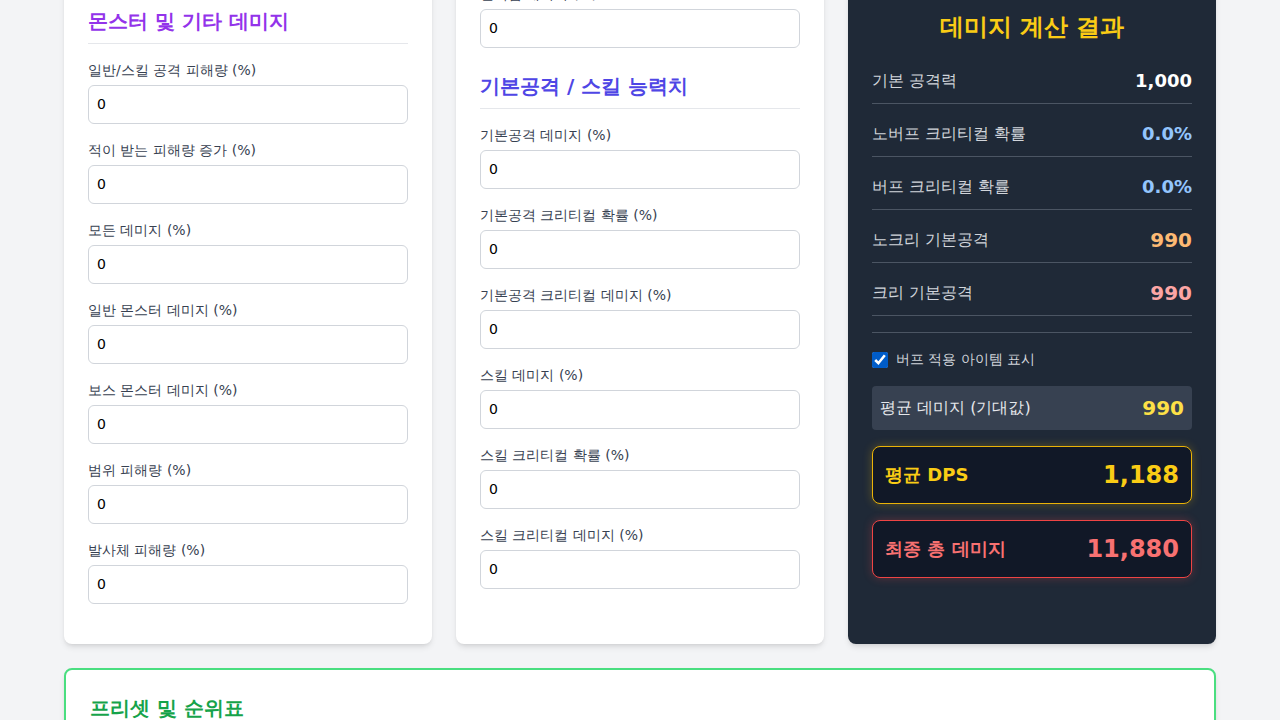
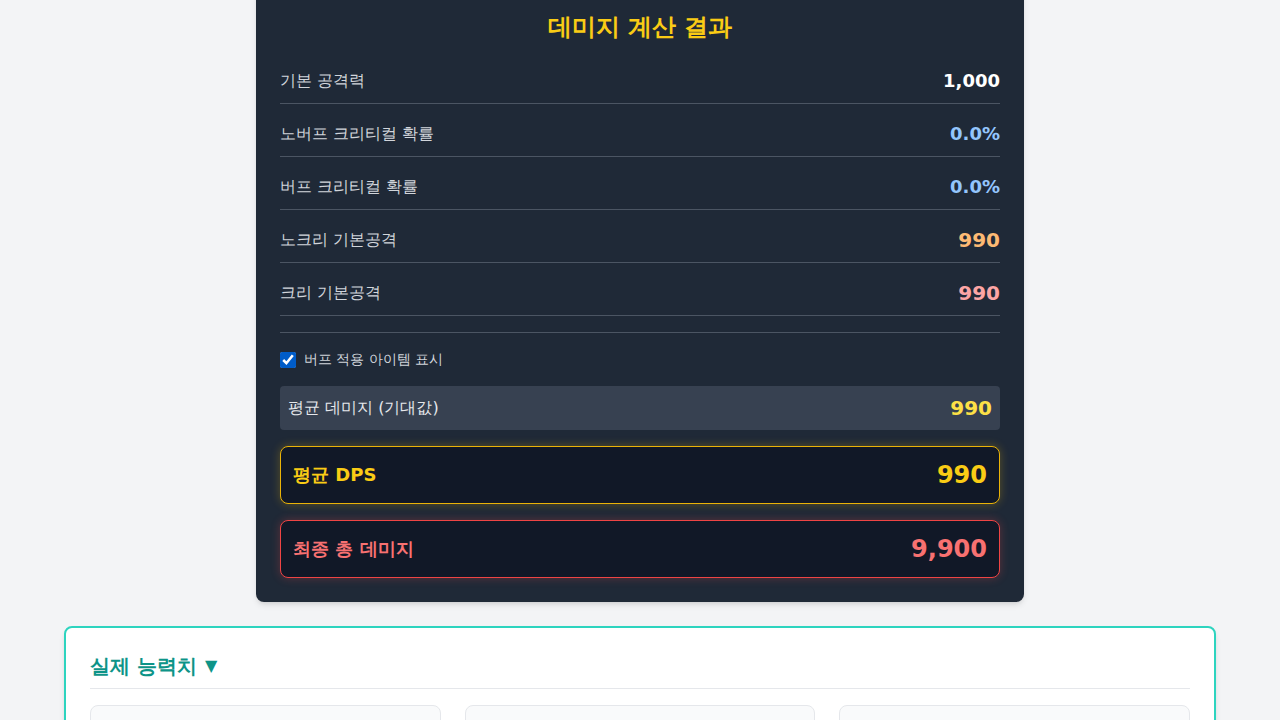
UI: Adjust damage calculation results section width
- Added `max-w-3xl` and `mx-auto` classes to the "데미지 계산 결과" div in `index.html`.
- This restricts the maximum width of the box to prevent it from stretching across wide screens, improving readability, and horizontally centers it.

diff --git a/index.html b/index.html
@@ -398,7 +398,7 @@
         </div>
 
         <!-- Results -->
-        <div class="bg-gray-800 text-white p-6 rounded-lg shadow-md mb-6">
+        <div class="bg-gray-800 text-white p-6 rounded-lg shadow-md mb-6 max-w-3xl mx-auto">
             <h2 class="text-2xl font-bold mb-6 text-center text-yellow-400">데미지 계산 결과</h2>
                     
                     <div class="space-y-4">
